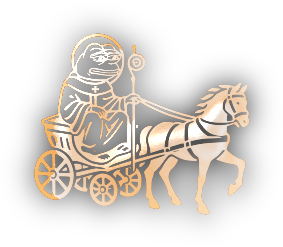
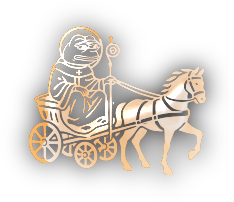
d

Changed region(s): [[0.1197, 0.1188, 0.8675, 0.8317], [0.7479, 0.6238, 0.7778, 0.6535]]

diff --git a/index.html b/index.html
@@ -137,7 +137,7 @@
 			<a style="margin-top:-2%;margin-bottom:4%;" href="https://raydium.io/swap/?inputMint=sol&outputMint=Et63bkNtgp7nyvBMBxjKGBCjxet9Hrvm7qXpjnYSbKGh" class="pure-menu-link btn btn-buy">Buy Now</a>
 		</div>
 		<div class="pure-u-1-1 pure-u-md-11-24">
-			<img loading="lazy" class="pure-img stpepe-home" style="z-index:0; position: relative;" src="images/stpepe-home-red.png"><br>
+			<img loading="lazy" class="pure-img stpepe-home" style="z-index:0; position: relative; max-width:580px;" src="images/stpepe-home.png"><br>
 		</div>
 		<div class="pure-u-1 pure-u-md-13-24 centered">
 			<div class="pure-g">
@@ -176,7 +176,7 @@
 	<div class="section">
 		<div class="pure-g">
 			<div class="pure-u-1">
-				<p style="text-align:center;"><img loading="lazy" src="images/dec-church.png" style="width: 40%; min-width: 260px; height: auto; max-width:768px; margin: 0 0 -2em 0;"></p>
+				<p style="text-align:center;"><img loading="lazy" src="images/dec-church.png" style="width: 40%; min-width: 260px; height: auto; max-width:524px; margin: 0 0 -2em 0;"></p>
 				<h1 class="golden-text" style="margin-bottom:-3%;">About</h1>
 			</div>
 
@@ -198,7 +198,7 @@
 				</div>
 			</div>
 			<div class="pure-u-1 pure-u-md-12-24">
-				<p style="text-align:center;"><img loading="lazy" class="pure-img" style="width: 100%; height: auto; max-width:1200px; margin: -3% 0 0 0;" src="images/frame-pepe-laugh.png"></p>
+				<p style="text-align:center;"><img loading="lazy" class="pure-img" style="width: 100%; height: auto; max-width:630px; margin: -3% 0 0 0;" src="images/frame-pepe-laugh.png"></p>
 			</div>
 		</div>
 
@@ -214,7 +214,7 @@
 	<div class="section" style="padding-bottom:0;">
 		<div class="pure-g">
 			<div class="pure-u-1">
-				<p style="text-align:center;"><img loading="lazy" src="images/dec-abacus.png" style="width: 15%; min-width: 80px; height: auto; max-width:216px; margin: 0 0 -2em 0;"></p>
+				<p style="text-align:center;"><img loading="lazy" src="images/dec-abacus.png" style="width: 15%; min-width: 80px; height: auto; max-width:178px; margin: 0 0 -2em 0;"></p>
 					<h1 class="golden-text" style="margin-bottom:-3%;">Tokenomics</h1>
 			</div>
 
@@ -260,10 +260,10 @@
 			</div>
 
 			<div class="pure-u-1">
-				<p style="text-align:center;"><img loading="lazy" class="pure-img" style="width: 100%; height: auto; max-width:1920px;padding-top:3%;" src="images/distribution-triangle-hat.png"></p>
+				<p style="text-align:center;"><img loading="lazy" class="pure-img" style="position:relative;float:center; width: 100%; height: auto; max-width:1230px;padding-top:3%;" src="images/distribution.png"></p>
 			</div>
 			<div class="pure-u-1">
-				<img loading="lazy" class="pure-img" style="float:left; margin-top:-33%; position: relative; width: 33%; heigth: auto;" src="images/stpepe-sheep.png">
+				<img loading="lazy" class="pure-img" style="float:left; margin-top:-33%; position: relative; width: 33%; heigth: auto; max-width:400px;" src="images/stpepe-sheep.png">
 			</div>
 		</div>
 	</div>
@@ -381,7 +381,7 @@
 	<div class="section">
 		<div class="pure-g">
 			<div class="pure-u-1">
-				<p style="text-align:center;"><img loading="lazy" src="images/dec-carriage.png" style="width: 15%; min-width: 80px; height: auto; max-width:216px; margin: 0 0 -2.5em 0;"></p>
+				<p style="text-align:center;"><img loading="lazy" src="images/dec-carriage.png" style="width: 15%; min-width: 80px; height: auto; max-width:234px; margin: 0 0 -2.5em 0;"></p>
 					<h1 class="golden-text"  style="margin-bottom:-3%;">Roadmap</h1>
 			</div>
 
@@ -440,7 +440,7 @@
 	<div class="section">
 		<div class="pure-g">
 			<div class="pure-u-1">
-				<p style="text-align:center;"><img loading="lazy" src="images/dec-church.png" style="width: 40%; min-width: 260px; height: auto; max-width:500px; margin: 0 0 -2em 0;"></p>
+				<p style="text-align:center;"><img loading="lazy" src="images/dec-church.png" style="width: 40%; min-width: 260px; height: auto; max-width:524px; margin: 0 0 -2em 0;"></p>
 				<h1 class="golden-text" style="margin-bottom:-3%;">Creed</h1>
 			</div>
 
@@ -455,8 +455,8 @@
 
 			<div class="pure-u-1 pure-u-md-12-24">
 				<div style="color: #241F1C;">
-					<img loading="lazy" class="pure-img" style="float:center; width: 100%; height: auto; max-width:652px; margin: 4% 0 0 0;" src="images/backgrounds/scroll.png">
-					<div style="margin: -120% 20% 80% 20%;">
+					<img loading="lazy" class="pure-img" style="float:center; width: 100%; height: auto; max-width:620px; margin: 4% 0 0 0;" src="images/backgrounds/scroll.png">
+					<div style="position:relative; margin: -120% 20% 80% 20%;">
 						<h2>St. Pepe's Creed<br><br></h2>
 						<p><b>❈ Be a NEET<br><br>
 						❈ Hold token<br><br>
@@ -465,7 +465,7 @@
 				</div>
 			</div>
 			<div class="pure-u-1 pure-u-md-12-24">
-				<p style="text-align:center;"><br><br><br><br><img loading="lazy" class="pure-img" style="width: 100%; height: auto; max-width:1200px; margin: -3% 0 0 0;" src="images/frame-pepe-wagie.png"></p>
+				<p style="text-align:center;"><br><br><br><br><img loading="lazy" class="pure-img" style="width: 100%; height: auto; max-width:630px; margin: -3% 0 0 0;" src="images/frame-pepe-wagie.png"></p>
 			</div>
 		</div>
 
@@ -481,15 +481,15 @@
 	<div class="section" style="padding-bottom:0;">
 		<div class="pure-g">
 			<div class="pure-u-1">
-				<p style="text-align:center;"><img loading="lazy" src="images/dec-chest.png" style="width: 15%; min-width: 80px; height: auto; max-width:216px; margin: 0 0 -2.5em 0;"></p>
+				<p style="text-align:center;"><img loading="lazy" src="images/dec-chest.png" style="width: 15%; min-width: 80px; height: auto; max-width:217px; margin: 0 0 -2.5em 0;"></p>
 					<h1 class="golden-text" style="margin-bottom:-3%;">How to buy</h1>
 			</div>
 
 			<div class="pure-u-12-24">
-				<p style="text-align:left;margin-top:-2%;"><img loading="lazy" src="images/dec-cross-round.png" style="width: 8%; height: auto; max-width:90px; margin: 0 0 -1em 2%;"></p>
+				<p style="text-align:left;margin-top:-2%;"><img loading="lazy" src="images/dec-cross-round.png" style="width: 8%; height: auto; max-width:50px; margin: 0 0 -1em 2%;"></p>
 			</div>
 			<div class="pure-u-12-24">
-				<p style="text-align:right;margin-top:-2%;"><img loading="lazy" src="images/dec-cross-round.png" style="width: 8%; height: auto; max-width:90px; margin: 0 2% -1em 0;"></p>
+				<p style="text-align:right;margin-top:-2%;"><img loading="lazy" src="images/dec-cross-round.png" style="width: 8%; height: auto; max-width:50px; margin: 0 2% -1em 0;"></p>
 			</div>
 			<div class="pure-u-1" style="margin-top:-2%; background: #E8BD84; background-image: linear-gradient(to bottom, #E8BD84, #F7EAC8);padding:1px; margin: 1% 1% 5% 1%; box-shadow: 0px 1px 8px rgba(0, 0, 0, 0.7);">
 			</div>
@@ -498,14 +498,14 @@
 				<div class="text-box" style="color: #241F1C; margin: 3% 1.5%;">
 					<div class="pure-g">
 						<div class="pure-u-4-24">
-							<img loading="lazy" src="images/dec-1.png" style="width:  4vw; height: auto; max-width: 122px; min-width: 50px;">
+							<img loading="lazy" src="images/dec-1.png" style="width:  4.1vw; height: auto; max-width: 78px; min-width: 50px;">
 						</div>
 						<div class="pure-u-16-24">
 							<h2>Use Phantom<br>Wallet</h2>
 							<hr>
 						</div>
 						<div class="pure-u-4-24">
-							<img loading="lazy" src="images/how-1.png" style="float: right; width: 4vw; height: auto; max-width: 122px; min-width: 50px;">
+							<img loading="lazy" src="images/buy-1.png" style="float: right; width: 4.1vw; height: auto; max-width: 78px; min-width: 50px;">
 						</div>
 						<div class="pure-u-1">
 							<p>Get Phantom Wallet for free from the App Store, Google Play, or as a Chrome extension at phantom.app. Ensure you only download from official sources to keep your assets safe.</p>
@@ -518,14 +518,14 @@
 				<div class="text-box" style="color: #241F1C; margin: 3% 1.5%;">
 					<div class="pure-g">
 						<div class="pure-u-4-24">
-							<img loading="lazy" src="images/dec-2.png" style="width:  4vw; height: auto; max-width: 122px; min-width: 50px;">
+							<img loading="lazy" src="images/dec-2.png" style="width:  4.1vw; height: auto; max-width: 78px; min-width: 50px;">
 						</div>
 						<div class="pure-u-16-24">
 							<h2>Add<br>Solana</h2>
 							<hr>
 						</div>
 						<div class="pure-u-4-24">
-							<img loading="lazy" src="images/how-2.png" style="float: right; width: 4vw; height: auto; max-width: 122px; min-width: 50px;">
+							<img loading="lazy" src="images/buy-2.png" style="float: right; width: 4.1vw; height: auto; max-width: 78px; min-width: 50px;">
 						</div>
 						<div class="pure-u-1">
 							<p>Fund your wallet with SOL by buying it in Phantom, transferring from another wallet, bridging from another chain, or purchasing on an exchange. Double-check wallet addresses during transfers.</p>
@@ -539,14 +539,14 @@
 				<div class="text-box" style="color: #241F1C; margin: 3% 1.5%;">
 					<div class="pure-g">
 						<div class="pure-u-4-24">
-							<img loading="lazy" src="images/dec-3.png" style="width:  4vw; height: auto; max-width: 122px; min-width: 50px;">
+							<img loading="lazy" src="images/dec-3.png" style="width:  4.1vw; height: auto; max-width: 78px; min-width: 50px;">
 						</div>
 						<div class="pure-u-16-24">
 							<h2>Access<br>Raydium</h2>
 							<hr>
 						</div>
 						<div class="pure-u-4-24">
-							<img loading="lazy" src="images/how-3.png" style="float: right; width: 4vw; height: auto; max-width: 122px; min-width: 50px;">
+							<img loading="lazy" src="images/buy-3.png" style="float: right; width: 4.1vw; height: auto; max-width: 122px; min-width: 50px;">
 						</div>
 						<div class="pure-u-1">
 							<p>Open raydium.io in your browser or Phantom’s built-in browser. Connect your wallet securely, select SOL in “You’re paying” and paste the $SAINTPEPE token address in “To receive.” Confirm the transaction and sign.</p>
@@ -559,14 +559,14 @@
 				<div class="text-box" style="color: #241F1C; margin: 3% 1.5%;">
 					<div class="pure-g">
 						<div class="pure-u-4-24">
-							<img loading="lazy" src="images/dec-4.png" style="width:  4vw; height: auto; max-width: 122px; min-width: 50px;">
+							<img loading="lazy" src="images/dec-4.png" style="width:  4.1vw; height: auto; max-width: 122px; min-width: 50px;">
 						</div>
 						<div class="pure-u-16-24">
 							<h2>Swap Solana<br>for $SaintPepe</h2>
 							<hr>
 						</div>
 						<div class="pure-u-4-24">
-							<img loading="lazy" src="images/how-4.png" style="float: right; width: 4vw; height: auto; max-width: 122px; min-width: 50px;">
+							<img loading="lazy" src="images/buy-4.png" style="float: right; width: 4.1vw; height: auto; max-width: 122px; min-width: 50px;">
 						</div>
 						<div class="pure-u-1">
 							<p>Exchange your Solana (SOL) tokens for $SAINTPEPE. No taxes apply, so slippage is not usually needed. During high market activity, enable slippage if necessary. Confirm everything carefully before proceeding.</p>
@@ -617,7 +617,7 @@
 	<div class="section" style="padding-bottom:2%;">
 		<div class="pure-g">
 			<div class="pure-u-1 pure-u-md-8-24">
-				<img loading="lazy" style="width: 80%; height: auto; min-width: 150px; max-width:576px; padding-top:calc(15px + 2%); margin-top:-2%;" src="images/logo-10.png">
+				<img loading="lazy" style="width: 80%; height: auto; min-width: 150px; max-width:340px; padding-top:calc(15px + 2%); margin-top:-2%;" src="images/logo-footer.png">
 			</div>
 			<div class="pure-u-12-24 pure-u-md-8-24">
 				<p class="white-text">Telegram</p>
